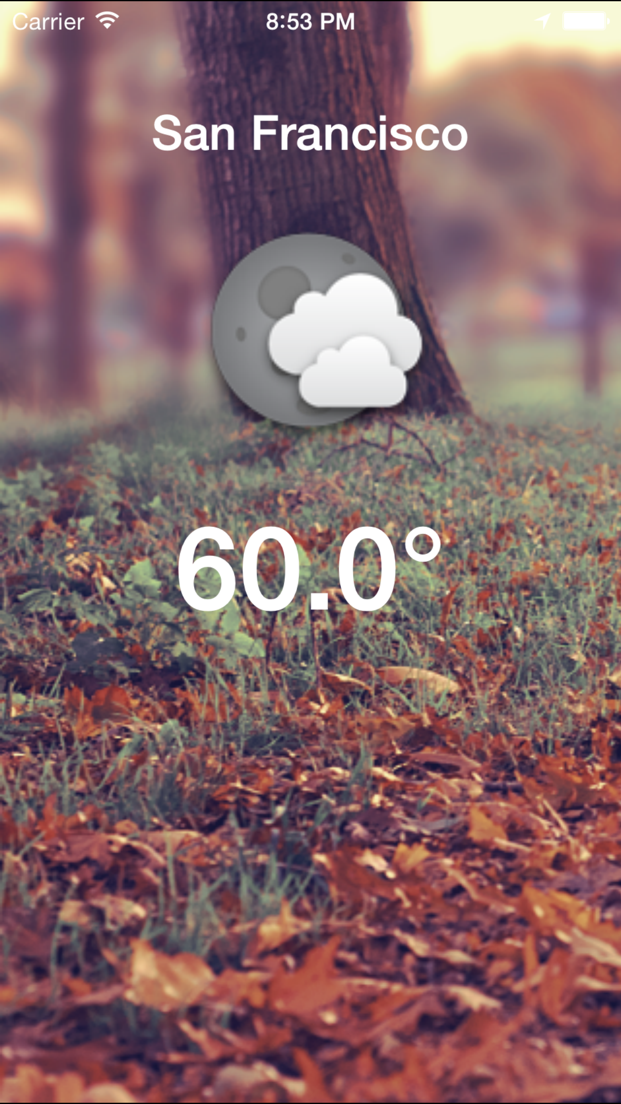
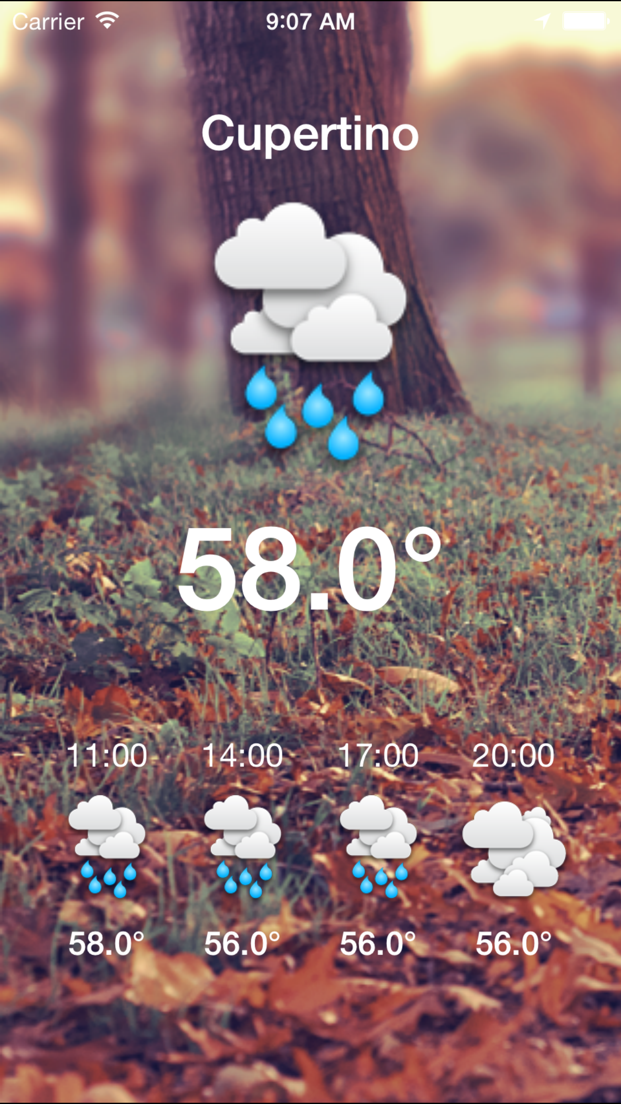
Update screenshots and readme file

diff --git a/README.md b/README.md
@@ -1,7 +1,7 @@
-SwiftWeather
+Swift Weather
 ============
 
-SwiftWeather is an iOS app developed in Swift language. The app can support iPhone 4(s), iPhone 5(s), iPhone 6 and iPhone 6 Plus.
+SwiftWeather is an iOS weather app developed in Swift language. The app can support iPhone 4(s), iPhone 5(s), iPhone 6 and iPhone 6 Plus.
 
 ## Screenshots
 ![Loading](https://raw.githubusercontent.com/JakeLin/SwiftWeather/master/screenshots/loading-33.png)
@@ -45,3 +45,4 @@ Because the app uses CocoaPods, we need to run `pod install` to install all the 
 
 ## Credits
 * Thanks to [johnsonjake](https://github.com/johnsonjake) for adding iOS 8 support and improving the UI/UX.
+* Thanks to [Marc](https://github.com/gizmou) for adding forcast feature.
